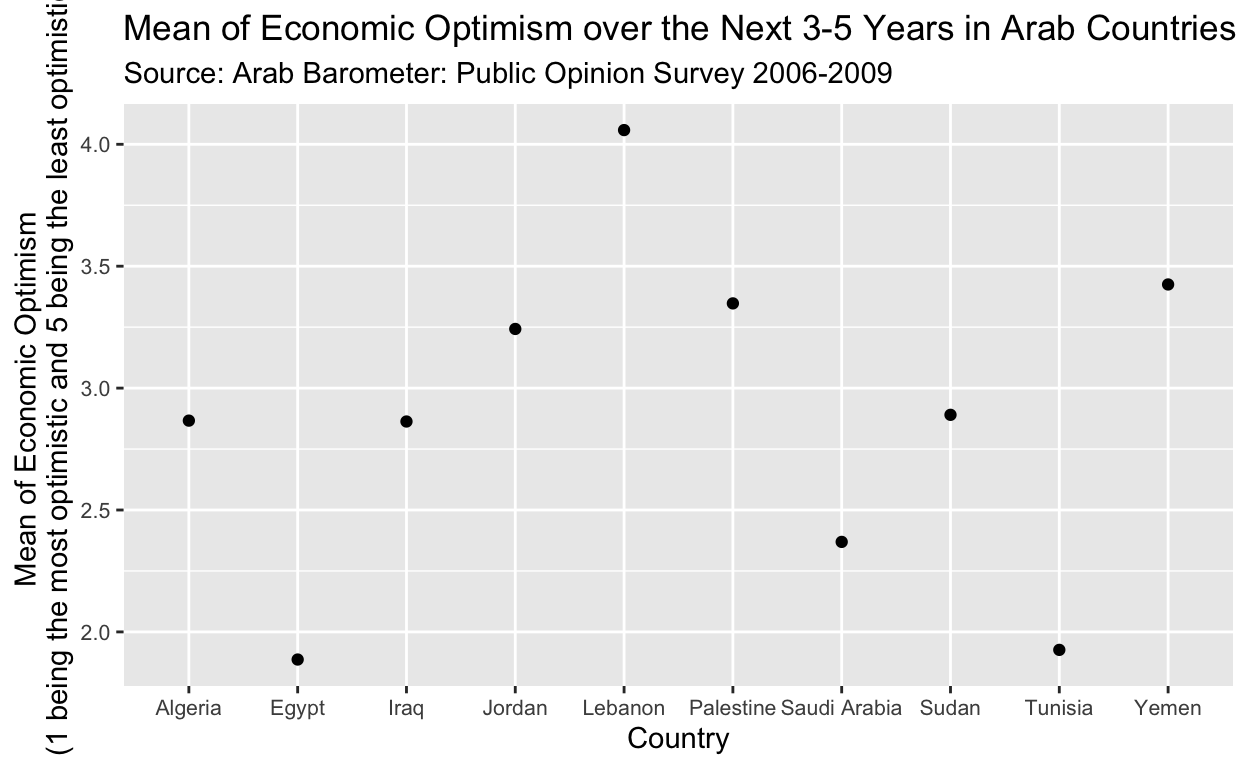
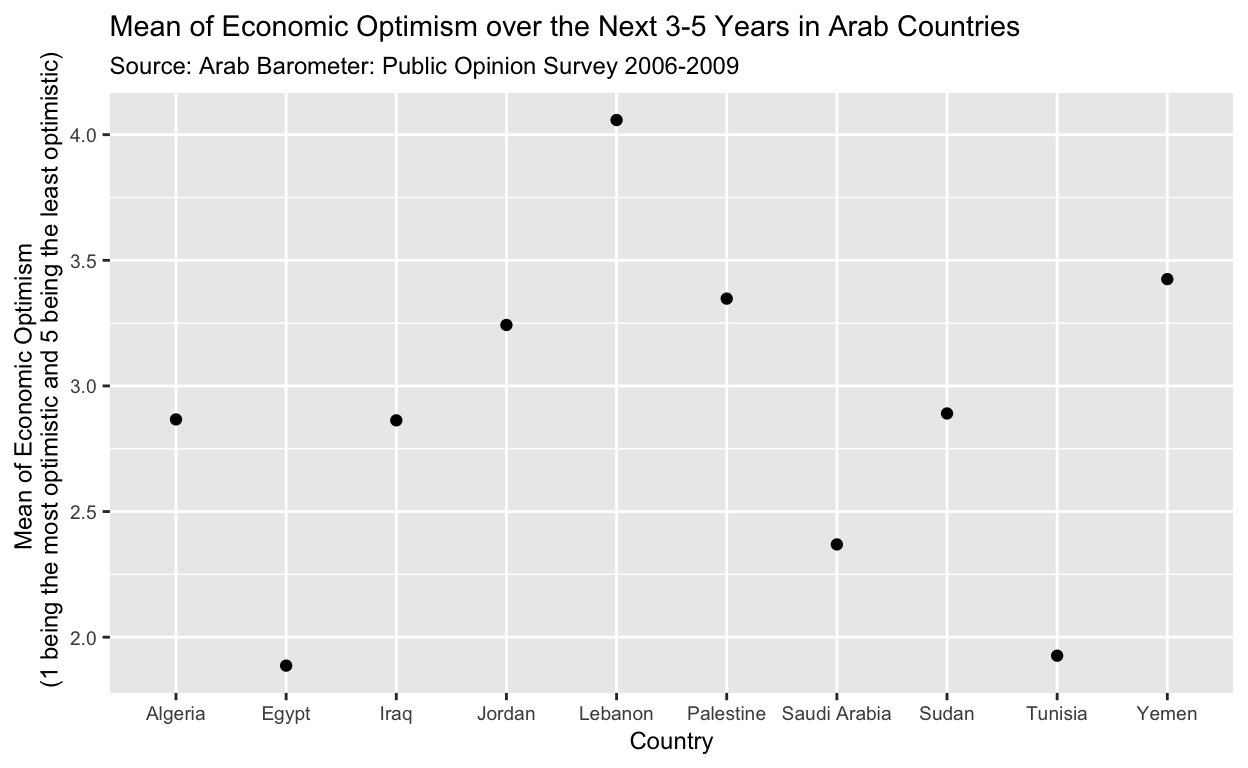
i think i fixed the font

diff --git a/index.html b/index.html
@@ -1553,10 +1553,10 @@ However, one issue I will face is that not all the Arab states were included in 
 <span>      <span class='va'>COUNTRY</span> <span class='op'>==</span> <span class='st'>"(1) 1. Algeria"</span> <span class='op'>~</span> <span class='st'>"Algeria"</span>, </span>
 <span>      <span class='va'>COUNTRY</span> <span class='op'>==</span> <span class='st'>"(5) 5. Egypt"</span> <span class='op'>~</span> <span class='st'>"Egypt"</span>, </span>
 <span>      <span class='va'>COUNTRY</span> <span class='op'>==</span><span class='st'>"(7) 7. Iraq"</span> <span class='op'>~</span> <span class='st'>"Iraq"</span>,</span>
+<span>      <span class='va'>COUNTRY</span> <span class='op'>==</span> <span class='st'>"(17) 17. Saudi Arabia"</span> <span class='op'>~</span> <span class='st'>"Saudi Arabia"</span>, </span>
 <span>      <span class='va'>COUNTRY</span> <span class='op'>==</span> <span class='st'>"(8) 8. Jordan"</span> <span class='op'>~</span> <span class='st'>"Jordan"</span>,</span>
 <span>      <span class='va'>COUNTRY</span> <span class='op'>==</span> <span class='st'>"(10) 10. Lebanon"</span> <span class='op'>~</span> <span class='st'>"Lebanon"</span>, </span>
 <span>      <span class='va'>COUNTRY</span> <span class='op'>==</span> <span class='st'>"(15) 15. Palestine"</span> <span class='op'>~</span> <span class='st'>"Palestine"</span>, </span>
-<span>      <span class='va'>COUNTRY</span> <span class='op'>==</span> <span class='st'>"(17) 17. Saudi Arabia"</span> <span class='op'>~</span> <span class='st'>"Saudi Arabia"</span>, </span>
 <span>      <span class='va'>COUNTRY</span> <span class='op'>==</span> <span class='st'>"(19) 19. Sudan"</span> <span class='op'>~</span> <span class='st'>"Sudan"</span>,</span>
 <span>      <span class='va'>COUNTRY</span> <span class='op'>==</span> <span class='st'>"(21) 21. Tunisia"</span> <span class='op'>~</span> <span class='st'>"Tunisia"</span>, </span>
 <span>      <span class='va'>COUNTRY</span> <span class='op'>==</span> <span class='st'>"(22) 22. Yemen"</span> <span class='op'>~</span> <span class='st'>"Yemen"</span></span>
@@ -1572,7 +1572,7 @@ However, one issue I will face is that not all the Arab states were included in 
 <span><span class='st'>       (1 being the most optimistic and 5 being the least optimistic)"</span>,</span>
 <span>       title <span class='op'>=</span> <span class='st'>"Mean of Economic Optimism over the Next 3-5 Years in Arab Countries"</span>,</span>
 <span>       subtitle <span class='op'>=</span> <span class='st'>"Source: Arab Barometer: Public Opinion Survey 2006-2009"</span><span class='op'>)</span><span class='op'>+</span></span>
-<span>  <span class='fu'><a href='https://ggplot2.tidyverse.org/reference/theme.html'>theme</a></span><span class='op'>(</span>axis.text <span class='op'>=</span> <span class='fu'><a href='https://ggplot2.tidyverse.org/reference/element.html'>element_text</a></span><span class='op'>(</span>size <span class='op'>=</span> <span class='fl'>8</span><span class='op'>)</span><span class='op'>)</span></span></code></pre>
+<span>  <span class='fu'><a href='https://ggplot2.tidyverse.org/reference/theme.html'>theme</a></span><span class='op'>(</span>text <span class='op'>=</span> <span class='fu'><a href='https://ggplot2.tidyverse.org/reference/element.html'>element_text</a></span><span class='op'>(</span>size <span class='op'>=</span> <span class='fl'>9</span><span class='op'>)</span><span class='op'>)</span></span></code></pre>
 </div>
 <p><img src="index_files/figure-html5/unnamed-chunk-3-1.png" width="624" /></p>
 </div>
